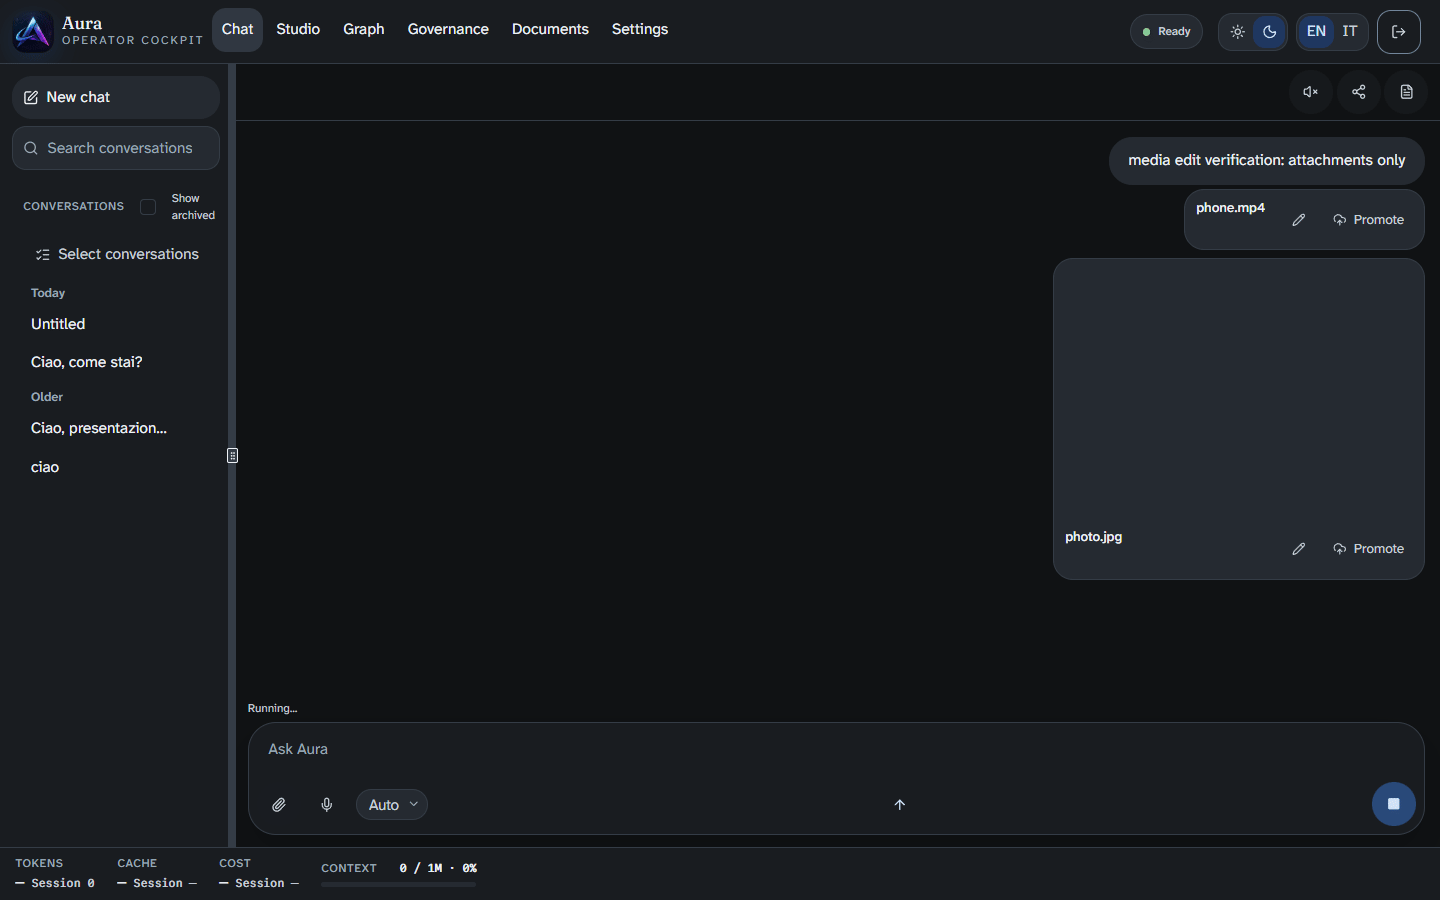
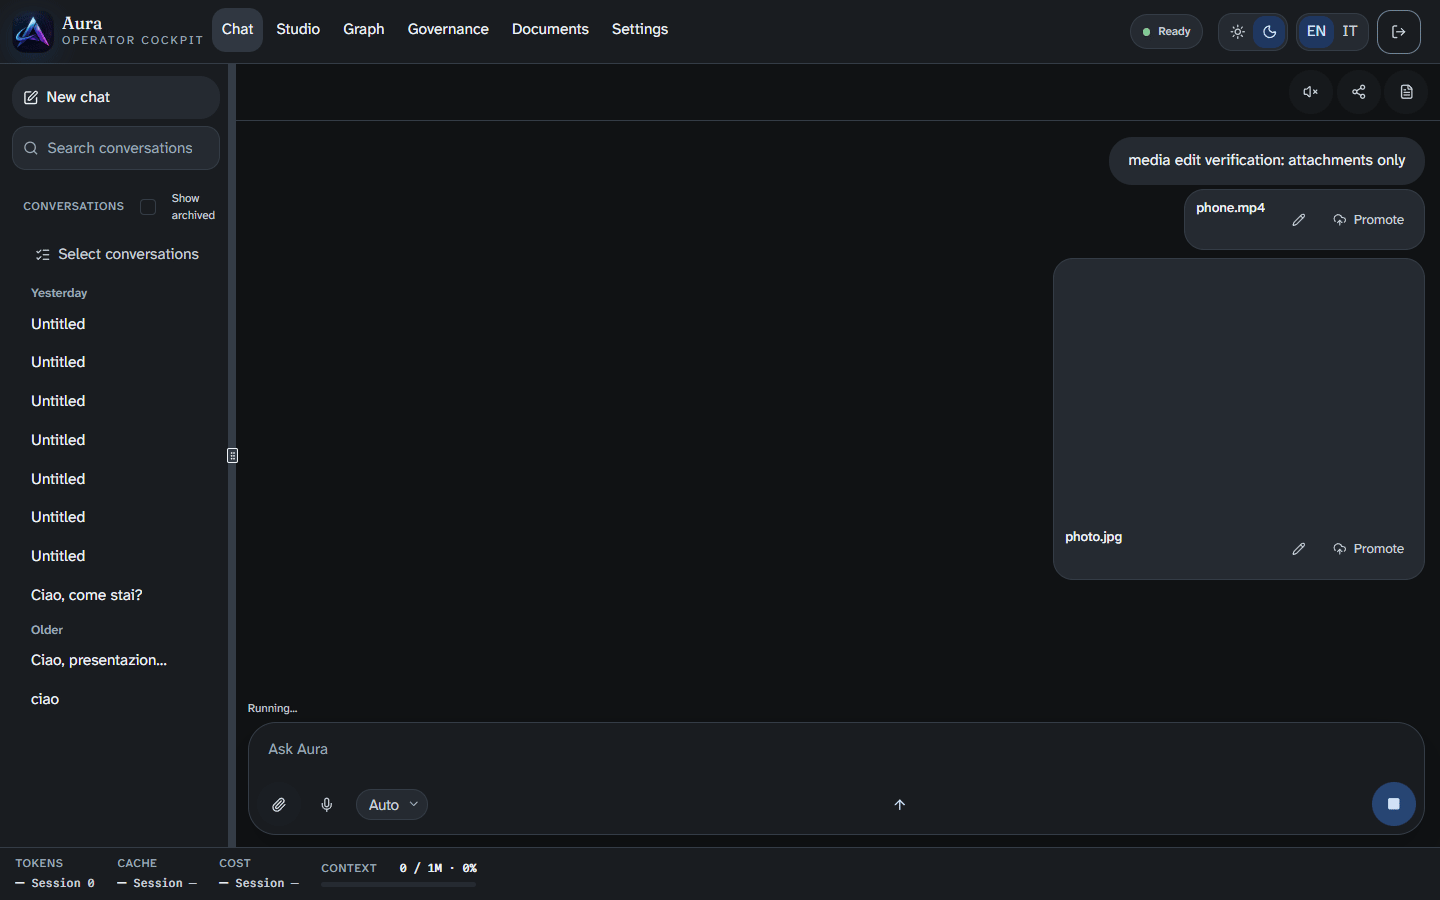
docs(media-edit): record the live uploads after the Caddy fix
Flows 1 and 3, the two the first pass could only carry past Bug 1 with an
in-test forward to Garage, were re-run on the appliance with nothing
forwarded, after 839e62efd routed every per-identity bucket to Garage and
Caddy was reloaded.

Both pass on desktop and on the phone viewport. Save to library takes 438
and 461 ms, the stored WebP's warm share reads 0.997 against the source's
0.242, and the new item is first in the Studio picker. The two chat uploads
travel the composer's own XHR body through Caddy and store byte for byte:
each reads back with the local file's SHA-256, and Edit opens on both cards.
A preflight to the per-identity path now answers 200 with CORS where it
answered 401.

The record of the failure before the fix stays, with its screenshots. Three
pass screenshots were replaced by the post-fix run's; the rest are
pixel-identical. Every asset and empty conversation the two runs created was
deleted, so the stack reads as it did before them.

diff --git a/docs/superpowers/verification/2026-09-19-media-editing.md b/docs/superpowers/verification/2026-09-19-media-editing.md
@@ -1,22 +1,30 @@
 # Media editing — live verification (Plan A, Task 12)
 
-Run on 2026-09-19 between 21:34 and 21:46 UTC. Target: the running appliance at
-`https://localhost`. No product code, compose file, Caddy file or `.env` was changed.
+Two runs against the running appliance at `https://localhost`, both on revision
+`09b764cfd`. No product code, compose file, Caddy file or `.env` was changed by either.
+
+- **First run, 2026-09-19 21:34–21:46 UTC.** Every flow. It found that no browser upload
+  works on the appliance (Bug 1), so flows 1 and 3 were carried past it with an in-test
+  forward to Garage.
+- **Second run, 2026-09-19 22:14–22:16 UTC**, after the front door was fixed by
+  `839e62efd` ("route every per-identity bucket to Garage, not only aura-assets") and Caddy
+  was reloaded on the live stack. Flows 1 and 3 again, **with no forward at all**.
 
 ## Verdict
 
-| Flow | Unmodified appliance | With the Garage forward (see Method) | Key number |
+| Flow | Before `839e62efd` | After `839e62efd`, no forward | Key number |
 |---|---|---|---|
-| 1. Studio image → Filters → Save to library → picker | **FAIL**: "Saving failed: upload failed" | PASS on desktop and phone | stored WebP warm share 0.242 → 0.997 |
-| 2. Agent video → trim 1–3 s → download | PASS (no upload involved) | — | ffprobe 2.042 s on Chrome, phone and Firefox |
-| 3. Phone MP4 + JPEG as chat attachments → Edit | **FAIL**: the attachment chip says "Failed" | PASS on desktop and phone | trimmed phone clip 2.000 s, rotation kept |
-| 4. Firefox trim + HEVC | Trim PASS | HEVC trim is **not** refused; HEVC crop **is** refused with the sentence | Firefox trim 165 ms, 2.042 s |
-| 5. Rotation-only export | — | **Copy path** | 52–65 ms, codec parameters identical to the source |
+| 1. Studio image → Filters → Save to library → picker | **FAIL**: "Saving failed: upload failed" | **PASS** on desktop and phone | stored WebP warm share 0.242 → 0.997 |
+| 2. Agent video → trim 1–3 s → download | PASS (no upload involved) | unchanged | ffprobe 2.042 s on Chrome, phone and Firefox |
+| 3. Phone MP4 + JPEG as chat attachments → Edit | **FAIL**: the attachment chip says "Failed" | **PASS** on desktop and phone | trimmed phone clip 2.000 s, rotation kept |
+| 4. Firefox trim + HEVC | Trim PASS | unchanged | HEVC trim is **not** refused; HEVC crop **is**, with the app's sentence |
+| 5. Rotation-only export | **Copy path** | unchanged | 52–65 ms, codec parameters identical to the source |
 
-The editors do their part on every surface tried. **Every browser upload on this appliance
-fails**, because Caddy does not route the per-identity bucket path to Garage (Bug 1). Until
-that is fixed, Save to library and chat attachments do not work for a real operator.
-Trimming, rotating, cropping and downloading involve no upload, so they work unmodified.
+The editors do their part on every surface tried. Trimming, rotating, cropping and
+downloading involve no upload, so they always worked. Saving and attaching did not until
+`839e62efd`: Caddy routed only `/aura-assets/*` to Garage while a presigned PUT goes to the
+per-identity bucket path (Bug 1). With the fix on the live stack, both flows pass end to
+end with nothing intercepted but the agent run.
 
 ## What was run
 
@@ -40,19 +48,20 @@ Real media already on the stack:
 conversations are text only; `/threads/{id}/messages` carries no media. The Veo clip above
 is the only agent-generated video, so flow 2 trims it on the Studio stage.
 
-Uploads, generated with ffmpeg for this run:
+Uploads, generated with ffmpeg for these runs:
 - `phone.mp4`: coded 1920×1080 H.264 High L4.0, 30 fps, 6 s, AAC 48 kHz. Display matrix rotation 90, so it displays at 1080×1920. 2 922 497 B.
 - `photo.jpg`: 1600×1200 baseline JPEG, 109 927 B.
 - `hevc.mp4`: HEVC Main L3.1 (`hvc1`), 1280×720, 30 fps, 4 s, AAC. 837 693 B.
 
 ## Method
 
-The run did not start a paid generation or a model turn.
+Neither run started a paid generation or a model turn.
 - **No Studio Generate.** The Studio was only read and edited.
 - **The run was held in the browser.** `**/agent/run` was routed to a handler that never
   answers, so the request never left Chromium or Firefox. Server evidence:
-  - The 7 conversations the sends created all read `TotalInputTokens 0`, `TotalOutputTokens 0`, `TotalCostUSD 0`.
-  - The aura log for 21:30–21:46 UTC holds only MCP grant and embed-backfill lines, with no run.
+  - Every conversation the sends created read `TotalInputTokens 0`, `TotalOutputTokens 0`, `TotalCostUSD 0`.
+  - The aura log holds only MCP grant and embed-backfill lines across both windows
+    (21:30–21:46 and 22:10–22:25 UTC), with no run.
 - **No vision summary.** A chat image's regular finalize (`internal/assets/service.go:147`)
   queues the image processor. Its vision call goes to the primary model whenever that
   model takes images (`internal/multimodal/vision.go:145`), which can be a paid OpenRouter
@@ -62,58 +71,64 @@ The run did not start a paid generation or a model turn.
   processing. The MP4 and HEVC files took the regular finalize, because no processor is
   wired for video.
 
-**The Garage forward.** This is the substitution that let flows 1 and 3 continue past Bug 1.
+**The Garage forward — first run only.** This was the substitution that let flows 1 and 3
+continue past Bug 1 before it was fixed. **The second run used none of it**: the only route
+left in place was the held agent run and the JPEG's finalize above.
 - The browser's PUT to `https://172.31.131.222/aura-<identity>/…` was carried to Garage on
   `127.0.0.1:3900`. It kept its signed `Host` and its presigned query, and got a CORS
   answer.
-- Nothing else changed: presign, signature, finalize, Studio library and download are all
+- Nothing else changed: presign, signature, finalize, Studio library and download were all
   the running server's.
 - The chat composer uploads a `File` by XHR, and Playwright's interception exposes no body
   for that. So for those PUTs the forward sent the attached file itself, named by the
-  signed `x-amz-meta-filename` header.
-- Checked afterwards: every stored object reads back through `/api/assets/{id}/download`
+  signed `x-amz-meta-filename` header. In the second run the composer's own body went to
+  Garage, because nothing intercepted it.
+- Checked after both runs: every stored object reads back through `/api/assets/{id}/download`
   with the local file's SHA-256 (`phone.mp4` `ba65bbfd…`, `photo.jpg` `3fa80881…`).
-- The Studio's Save to library uploads with `fetch` and a Blob. Its real browser body was
-  forwarded as is.
 
 ## Flow 1 — Studio image → Filters → Save to library → library picker
 
 Steps: Studio → select the image record → Edit → Filters (on the phone behind Filerobot's ☰
 menu) → Sepia → Save to library. Then close the editor and open Start frame → Your images.
 
-**Unmodified appliance: FAIL (desktop).**
+**Before `839e62efd`: FAIL (desktop).**
 - `POST /api/assets/presign` returned 200.
 - The `PUT https://172.31.131.222/aura-214f9d28-…/chat/52396265-….webp` failed with
   `net::ERR_FAILED`.
 - The editor shows "Saving failed: upload failed" with Retry.
-- The asset row `c5265375…` stays `presigned` with 0 bytes, and nothing reached the library.
+- The asset row `c5265375…` stayed `presigned` with 0 bytes, and nothing reached the library.
 
-![Save to library fails on the unmodified appliance](media-editing-2026-09-19/desktop-studio-save-upload-failed.png)
+![Save to library fails before the Caddy fix](media-editing-2026-09-19/desktop-studio-save-upload-failed.png)
 
-**With the forward: PASS on desktop and phone.**
+**After `839e62efd`, nothing forwarded: PASS on desktop and phone.** The presigned PUT goes
+straight to `https://172.31.131.222/aura-214f9d28-…/chat/<uuid>.webp` and Caddy hands it to
+Garage.
 
 | | desktop | phone |
 |---|---|---|
-| Save to library → "Saved to the Studio library" | 443 ms | 364 ms |
-| New library asset | `be8db27e…` `generated-edited.webp`, image/webp, 82 932 B | `3d56b2ec…` `generated-edited.webp`, 73 016 B |
+| Save to library → "Saved to the Studio library" | **438 ms** | **461 ms** |
+| New library asset | `87fb0223…` `generated-edited.webp`, image/webp, 82 932 B | `5bbe58d5…` `generated-edited.webp`, 73 016 B |
 | Stored image | 1024×1024 | 1024×1024 |
-| Warm share (R ≥ G ≥ B), source 0.242 | **0.997** | **0.997** |
+| Warm share (R ≥ G ≥ B), source 0.242 | **0.9972** | **0.9965** |
 | Mean R−B, source −2.4 | **+38.9** | **+38.9** |
-| `/api/studio/library` count | 6 → 7 | 9 → 10 |
+| `/api/studio/library` count | 10 → 11 | 12 → 13 |
 | First tile in "Your images" | `generated-edited.webp` | `generated-edited.webp` |
 
 The warm share and R−B are measured on the bytes read back from the download route, not on
-the canvas.
+the canvas. The library counts start high because the first run's items were still there;
+everything this verification created has since been deleted (see Leftovers).
+
+The first run, through the forward, measured the same picture: 443 ms and 364 ms, the same
+byte counts, warm 0.997, and the new item first in the picker.
 
 ![Photo editor, Sepia, desktop](media-editing-2026-09-19/desktop-studio-photo-sepia.png)
 ![The new photo first in the Studio picker, desktop](media-editing-2026-09-19/desktop-studio-library-picker.png)
 
 <img src="media-editing-2026-09-19/phone-studio-photo-sepia.png" alt="Photo editor, Sepia, phone" width="260"> <img src="media-editing-2026-09-19/phone-studio-library-picker.png" alt="The Studio picker, phone" width="260">
 
-In the phone picker the broken `photo.jpg` tile is residue of this run, not of the app. It
-was a 0-byte chat attachment my first forward attempt stored (see Bug 2), deleted
-afterwards. The colour-bar `photo.jpg` is the desktop chat attachment of flow 3.
-"Your images" lists usable images from any thread by design (`service.go:31`).
+Both screenshots are from the second run. The picker also holds the earlier sepia copies and
+the colour-bar `photo.jpg` chat attachments of flow 3: "Your images" lists usable images
+from any thread by design (`service.go:31`). All of them were deleted afterwards.
 
 ## Flow 2 — agent-generated video → trim 1–3 s → download
 
@@ -144,30 +159,44 @@ run held. Then the attachment card's Edit (pencil).
 offers only Remove. The Edit button lives on the sent message's `AttachmentCard`. So the
 message was sent with `/agent/run` held.
 
-**Unmodified appliance: FAIL.**
+**Before `839e62efd`: FAIL.**
 - The chip reads **Failed**.
 - The console reports the CORS block on `https://172.31.131.222/aura-214f9d28-…/chat/….mp4`,
   and the PUT fails with `net::ERR_FAILED`.
-- Asset `1fa1ff9f…` stays `presigned`, 0 bytes.
+- Asset `1fa1ff9f…` stayed `presigned`, 0 bytes.
 
-![Chat attachment fails on the unmodified appliance](media-editing-2026-09-19/desktop-chat-upload-failed.png)
+![Chat attachment fails before the Caddy fix](media-editing-2026-09-19/desktop-chat-upload-failed.png)
 
-**With the forward: PASS on desktop and phone.**
+**After `839e62efd`, nothing forwarded: PASS on desktop and phone.**
 
-Requests the browser made:
-1. `presign` ×2, then `PUT` ×2.
+Requests the browser made, in order:
+1. `presign` ×2, then `PUT` ×2 straight to `https://172.31.131.222/aura-214f9d28-…/chat/<uuid>.<ext>`.
 2. `finalize` ×2: the MP4's regular, the JPEG's the Studio's unprocessed one (see Method).
 3. `POST /api/conversations` 201.
 4. `POST /agent/run`, held.
+
+Both uploads were stored whole, with the composer's own XHR body:
+
+| Asset | desktop | phone |
+|---|---|---|
+| `phone.mp4`, 2 922 497 B, SHA-256 `ba65bbfd…` | `f0260e9d…`, `complete` | `7ef7b529…`, `complete` |
+| `photo.jpg`, 109 927 B, SHA-256 `3fa80881…` | `4a7740e3…`, `accepted` | `8a921a5d…`, `accepted` |
+
+Each was read back through `/api/assets/{id}/download`: the same byte count and the same
+SHA-256 as the local file.
 
 The cards show a pencil named "Edit phone.mp4" and "Edit photo.jpg".
 
 ![The sent message's attachment cards](media-editing-2026-09-19/desktop-chat-cards.png)
 
+The "Untitled" rows in that sidebar are the conversations the held sends opened; they have
+since been deleted. The `photo.jpg` card's preview had not finished loading when the shot
+was taken; the phone run shows it drawn.
+
 | | desktop | phone |
 |---|---|---|
 | `phone.mp4` editor size label | **1080 × 1920** (file rotation applied) | **1080 × 1920** |
-| Trim 1–3 s → download `phone-edited.mp4` | 58 ms | 74 ms |
+| Trim 1–3 s → download `phone-edited.mp4` | **59 ms** (58 ms in the first run) | **63 ms** (74 ms) |
 | ffprobe of the cut | video **2.000 s**, 60 frames, H.264 High L4.0, coded 1920×1080, **display matrix rotation 90 kept**; AAC 2.008 s; 977 093 B | identical |
 | `photo.jpg` → Filters → Inkwell → Download | `photo-edited.jpeg`, 65 280 B, `ffd8ff`, 1600×1200 | 51 346 B, `ffd8ff`, 1600×1200 |
 | Grey share (\|R−G\|, \|G−B\| ≤ 6), source 0.00003 | **1.000** | **1.000** |
@@ -184,8 +213,8 @@ Chrome writes. The filmstrip drew 10 frames.
 
 ![Firefox, trim](media-editing-2026-09-19/firefox-studio-video-trim.png)
 
-**HEVC, uploaded as a chat attachment.** Firefox needed no body substitution: its PUT body
-reached the forward.
+**HEVC, uploaded as a chat attachment** (first run, through the forward; Firefox's own PUT
+body reached it, no substitution needed).
 
 | | Firefox 155 | Chrome 153 on this host |
 |---|---|---|
@@ -222,39 +251,47 @@ separate the two paths; the codec parameters do.
 
 ![Rotation only, 90° right, phone MP4](media-editing-2026-09-19/desktop-chat-phone-mp4-rot90.png)
 
-## Bugs found (not fixed here; the controller decides)
+## Bugs found
 
-### Bug 1 — every browser upload fails on the appliance (blocker)
+### Bug 1 — every browser upload failed on the appliance (blocker) — FIXED by `839e62efd`
 
-The presigned PUT and Caddy do not match.
+The presigned PUT and Caddy did not match.
 - `AURA_OBJECTSTORE_PUBLIC_ENDPOINT=https://172.31.131.222`, and per-identity isolation
   names the bucket `aura-<identity>`. The presigned URL is therefore
   `https://172.31.131.222/aura-214f9d28-a020-4627-8611-4ee85ab4e1dc/chat/<uuid>.<ext>`.
 - `caddy/Caddyfile:33` sends only `/aura-assets/*` to `garage:3900`. Everything else goes
   to `aura:9080`, which answers the preflight with 401 and no CORS headers.
 
-Preflight measured with `curl -k -X OPTIONS -H 'Origin: https://localhost' -H 'Access-Control-Request-Method: PUT'`:
+Preflight measured with `curl -k -X OPTIONS -H 'Origin: https://localhost' -H 'Access-Control-Request-Method: PUT'`, before and after the fix:
 
-| Path | via `https://localhost` | via `https://172.31.131.222` |
-|---|---|---|
-| `/aura-assets/x` | 200 | 200 |
-| `/aura-214f9d28-…/chat/x.webp` | **401** | **401** |
+| Path | before, via `https://localhost` | before, via `https://172.31.131.222` | after, via `https://172.31.131.222` |
+|---|---|---|---|
+| `/aura-assets/x` | 200 | 200 | 200, `Access-Control-Allow-Origin: *` |
+| `/aura-214f9d28-…/chat/x.webp` | **401** | **401** | **200**, `Access-Control-Allow-Origin: *` |
+| `/aura-probe-identity/x` | — | — | 200, `Access-Control-Allow-Origin: *` |
 
-Effects seen:
+Effects seen before the fix:
 - Save to library: "Saving failed: upload failed".
 - Chat attachments: the chip says "Failed".
-- The Studio's own "Upload a file" frame upload takes the same presign route, so it
-  presumably fails too. That was not exercised.
-- Failed attempts leave `presigned` 0-byte asset rows (`c5265375…`, `1fa1ff9f…`).
+- The Studio's own "Upload a file" frame upload takes the same presign route
+  (`frameUpload.ts` calls `presignAsset`), so it failed too. That was not exercised directly.
+- Failed attempts left `presigned` 0-byte asset rows (`c5265375…`, `1fa1ff9f…`).
 - The committed E2E (`web/e2e/media-edit.spec.ts`) cannot catch this. It runs against a
   side stack with a shared bucket and no Caddy in front.
+
+**The fix**, `839e62efd`, replaces the `/aura-assets/*` handle with
+`@objectstore path_regexp ^/aura-[A-Za-z0-9][A-Za-z0-9_.-]{0,63}/` in `caddy/Caddyfile` and
+`caddy/Caddyfile.domain`, and was applied to the live `/opt/aura/caddy/Caddyfile` with a
+Caddy reload. Flows 1 and 3 were then re-run with no forward at all and pass, on desktop and
+phone: see the two flow sections above.
 
 ### Bug 2 — finalize accepts an object shorter than declared (minor, server)
 
 `accept` (`internal/assets/service.go:183-217`) checks the stored size only against the
 modality limit. It never compares it with `declared_size_bytes` and does not refuse 0 bytes.
 
-This run's first forward attempt stored empty objects. The server accepted them:
+Still open. The first run's first forward attempt stored empty objects, and the server
+accepted them:
 - `ea7a6a19…` `phone.mp4`: declared 2 922 497 B, stored 0 B, status `complete`.
 - `9395b01f…` `photo.jpg`: declared 109 927 B, stored 0 B, status `accepted`.
 - Both have the content hash of the empty string (`e3b0c442…`).
@@ -281,18 +318,25 @@ measurement (`DELETE /api/assets/{id}` → 200, now `deleting`).
 - The phone MP4 filmstrips above show horizontal bars smeared across each slot, while the
   preview above them is correct.
 
-## Left on the stack by this run
+## Leftovers — all removed
 
-- **Studio library:** two `generated-edited.webp` (`be8db27e…`, `3d56b2ec…`).
-- **Chat attachments:**
-  - `phone.mp4` (`a412e854…`, `99e3a259…`) and `photo.jpg` (`27caec9a…`, `59000641…`).
-    The two JPEGs also appear in the Studio picker.
-  - `hevc.mp4` ×4 (`8cfcab37…`, `7ade2453…`, `f50e974b…`, `342db6bc…`).
-- **Failed attempts:** `presigned` 0-byte rows `c5265375…` and `1fa1ff9f…`.
-- **Deleted:** the empty `ea7a6a19…` and `9395b01f…`, now `deleting`.
-- **Conversations:** 7 empty "Untitled" ones (`01a0bb9c…`, `01a0bb9e…`, `01a0bb9f…`,
-  `01a0bba0-9ed7…`, `01a0bba0-ce5a…`, `01a0bba1-9b58…`, `01a0bba1-b6b0…`). Send creates the
-  conversation (`POST /api/conversations` 201) before the held run. They were not deleted.
+After the second run everything the two runs created was deleted, and the stack reads as it
+did before them: 6 images in the Studio library (`generated.webp` and five `generated.png`,
+all from 2026-09-16/17) and 3 conversations.
+
+Deleted:
+- **20 assets**, `DELETE /api/assets/{id}` → 200 each: four `generated-edited.webp`
+  (`be8db27e…`, `3d56b2ec…`, `87fb0223…`, `5bbe58d5…`), four `phone.mp4`, four `photo.jpg`,
+  four `hevc.mp4`, the two `presigned` 0-byte rows (`c5265375…`, `1fa1ff9f…`) and the two
+  empty ones of Bug 2 (`ea7a6a19…`, `9395b01f…`, deleted right after that measurement).
+- **9 empty conversations**, `DELETE /api/conversations/{id}` → 204 each. Send opens the
+  conversation (`POST /api/conversations` 201) before the held run, so each send left one.
+
+Kept, because they are not mine: the two Studio-generated assets (`generated.webp`,
+`generated.mp4`), the older library images, and the three real conversations. The delete
+filter matched only the four test file names, created at or after 2026-09-19 21:30 UTC, with
+`source_kind: web`; conversations only when created in that window with an empty title and
+zero tokens and cost.
 
 ## What this does not prove
 
@@ -302,12 +346,16 @@ measurement (`DELETE /api/assets/{id}` → 200, now `deleting`).
   Chrome's codec stack or memory limits.
 - **Very large clips.** The largest source was 3.4 MB and 6 s. Neither the 500 MB "Open
   anyway" gate nor memory under a long 4K clip was exercised.
-- **Uploads on the appliance as it stands.**
-  - Every successful Save to library and chat attachment here went through the in-test
-    Garage forward (Bug 1).
-  - The chat composer's PUT body was re-sent from the attached file, not from the browser.
-  - Whether a real browser also trusts Caddy's internal certificate for `172.31.131.222` was
-    not measured: the harness ignores HTTPS errors.
+- **Uploads beyond what the second run touched.**
+  - The upload path is proven only for this host's origin, `https://localhost` with the
+    object store at `https://172.31.131.222`. `caddy/Caddyfile.domain` carries the same fix
+    but was not exercised.
+  - The harness ignores HTTPS errors, so whether a real browser trusts Caddy's internal
+    certificate for `172.31.131.222` is still not measured.
+  - Only two uploads per viewport, 2.9 MB and 110 KB, and no resumable or interrupted
+    upload.
+  - The Studio's own "Upload a file" frame picker was never used; it shares the presign
+    route, so the fix should cover it, but that is inference, not measurement.
 - **The regular chat image path.** The JPEG took the Studio's unprocessed finalize, so the
   vision summary and document naming of a chat image did not run.
 - **A persisted chat message.** With the run held, the cards are the client's optimistic
